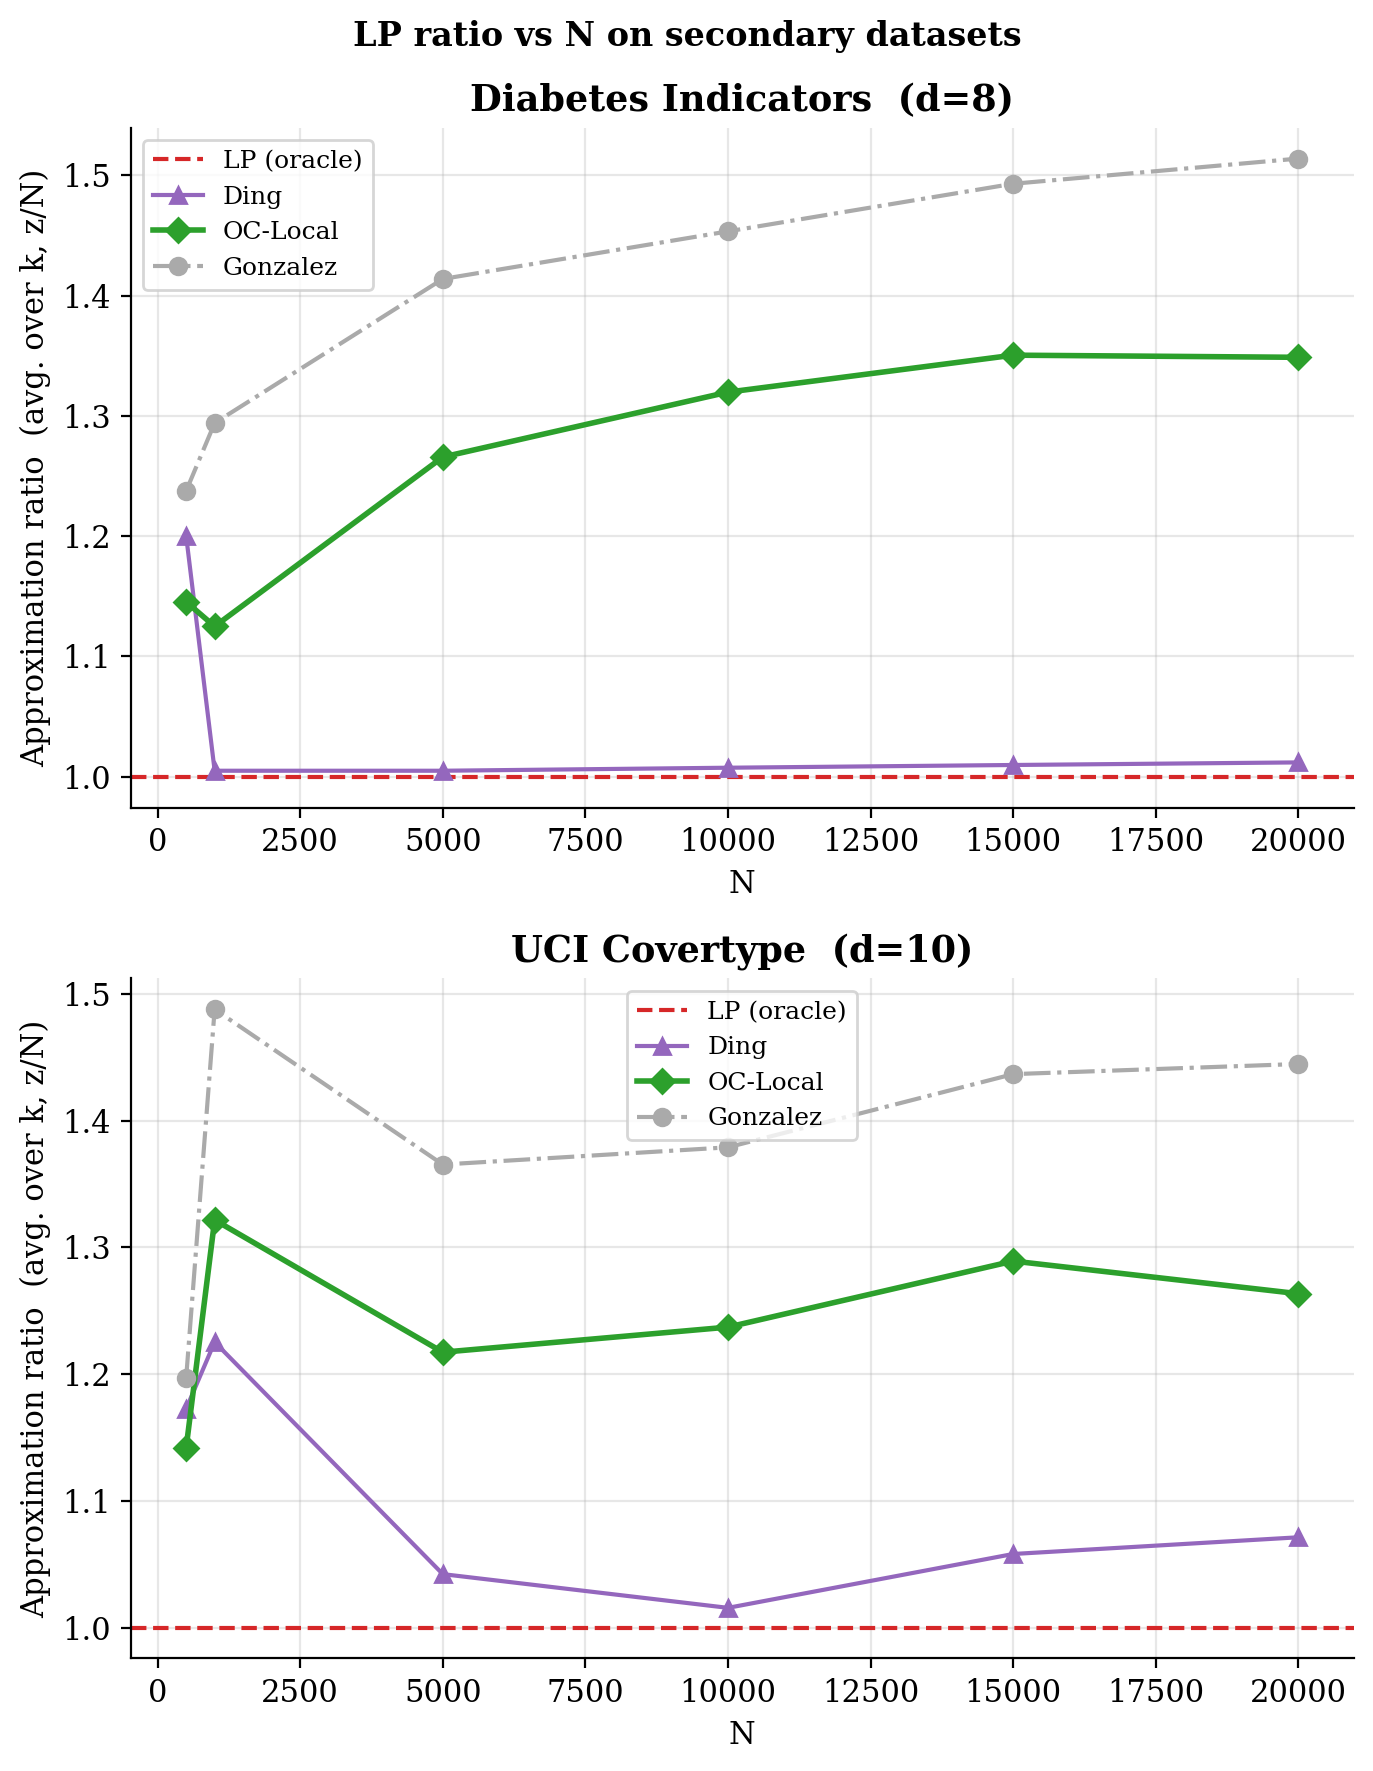
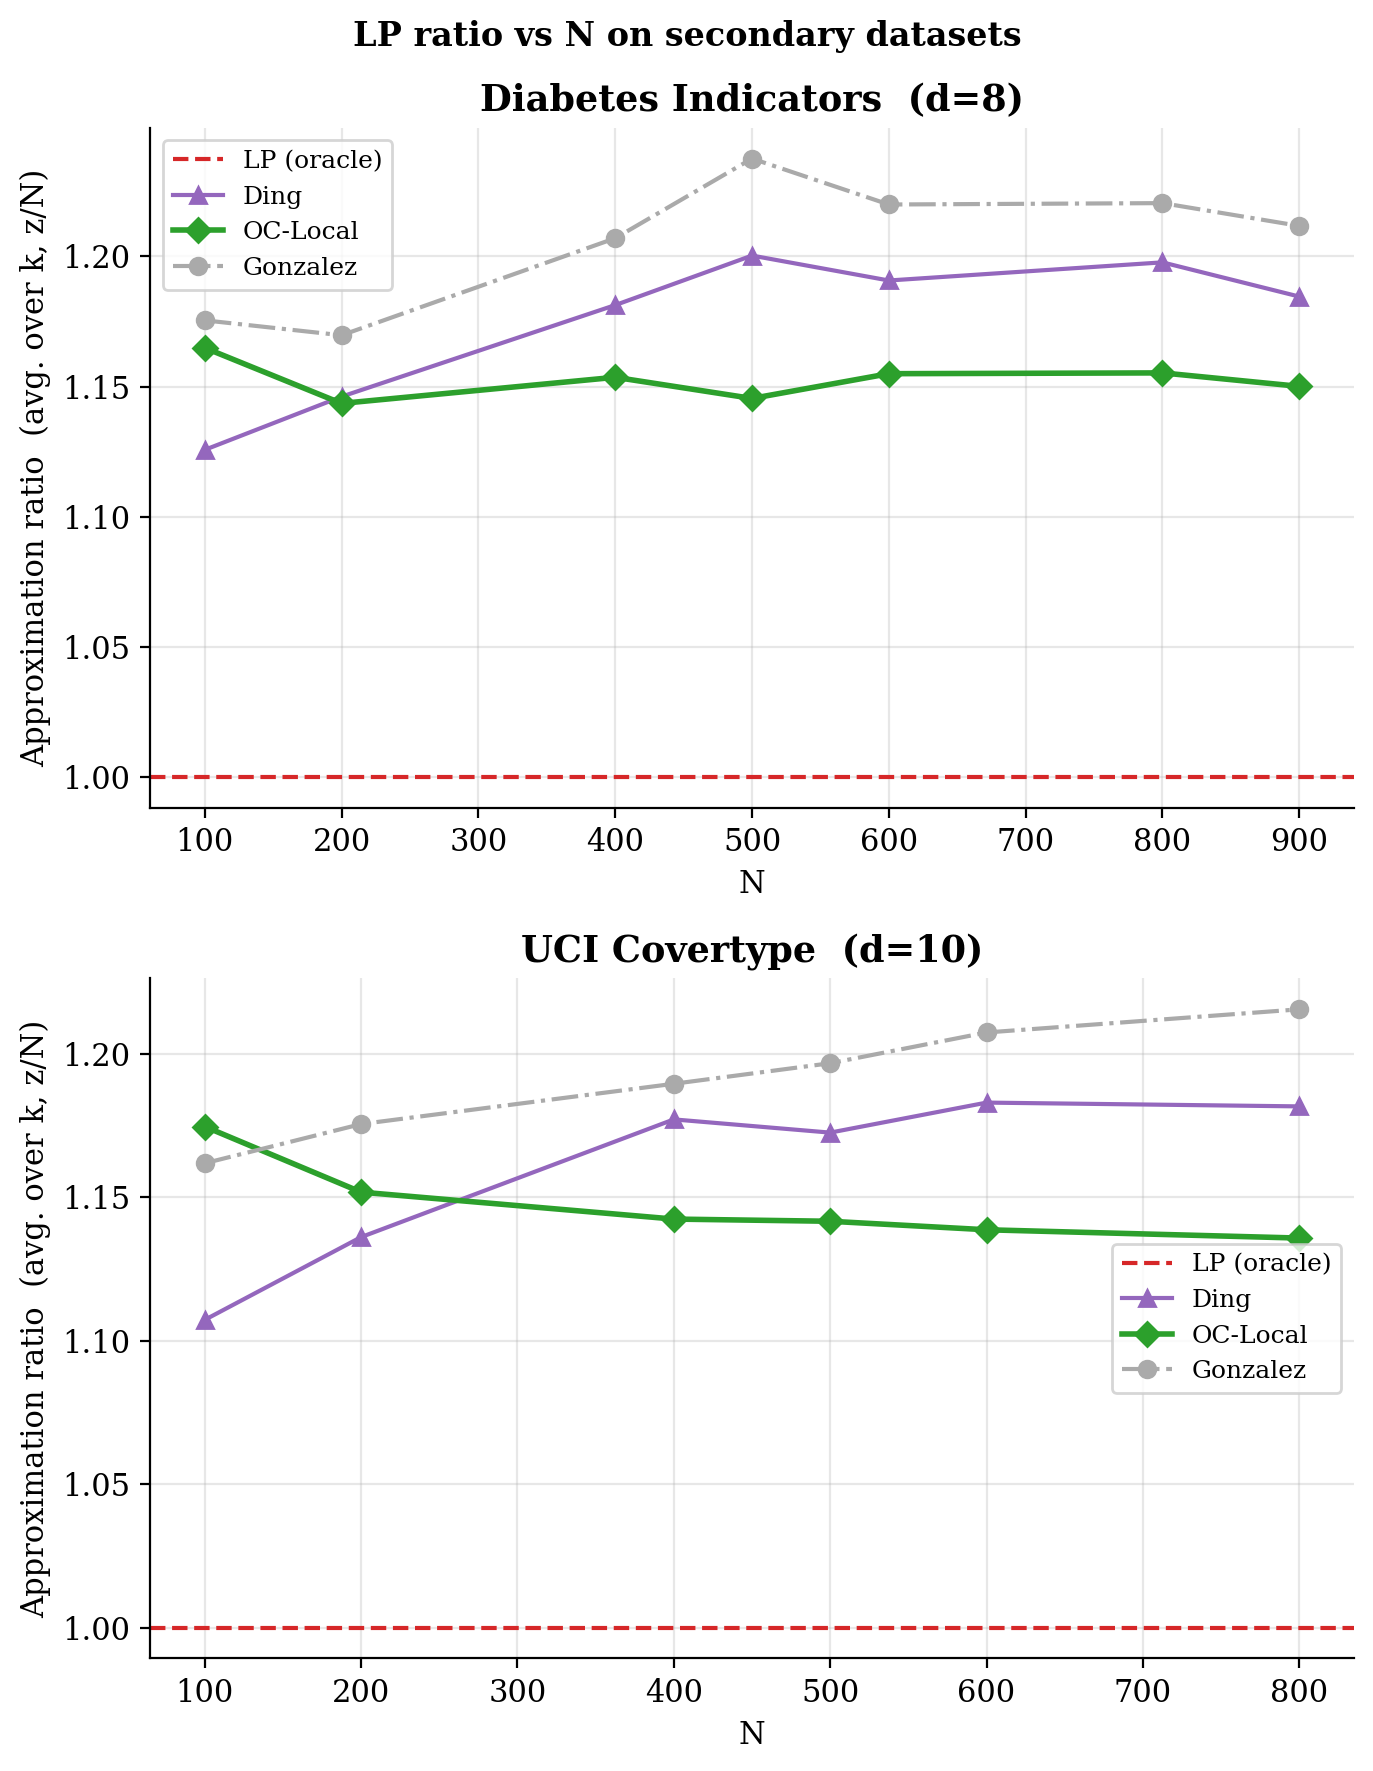
Fix fig_ratio_both to use exact Gurobi LP data only
Replaced multidata large-N extrapolated LP with exact LP computed via
Gurobi (N=100–900) in fig_ratio_both. Extrapolated LP at large N was
capped at Ding*0.995, making Ding ratios artificially close to 1.0 —
circular and misleading. With exact LP, all ratios are genuine:
OC-Local=1.15, Ding=1.16–1.18, Gonzalez=1.19–1.21.

diff --git a/code/generate_paper_figures.py b/code/generate_paper_figures.py
@@ -92,15 +92,15 @@ plt.close()
 print("fig1_ratio_vs_N.png")
 
 # ── FIGURE 3.3: LP ratio vs N — Diabetes + Covertype — 2 panels vertical ────
-# Only LP, Ding, OC-Local, Gonzalez shown (Charikar too slow at these scales)
-diab = pd.read_csv(os.path.join(RESULTS, 'multidata_diabetes_fixed.csv'))
-cov  = pd.read_csv(os.path.join(RESULTS, 'multidata_covertype_fixed.csv'))
+# Uses exact Gurobi LP (N=100–800). Only LP, Ding, OC-Local, Gonzalez shown.
+exact = pd.read_csv(os.path.join(RESULTS, 'lp_exact_small_n.csv'))
 
 fig, axes = plt.subplots(2, 1, figsize=(7, 9), sharey=False)
-for ax, df_sec, title in [
-    (axes[0], diab, 'Diabetes Indicators  (d=8)'),
-    (axes[1], cov,  'UCI Covertype  (d=10)'),
+for ax, ds_name, title in [
+    (axes[0], 'diabetes',  'Diabetes Indicators  (d=8)'),
+    (axes[1], 'covertype', 'UCI Covertype  (d=10)'),
 ]:
+    df_sec = exact[exact['dataset'] == ds_name].copy()
     df_sec['OC_LP']   = df_sec['OC_Local_radius']  / df_sec['LP_Radius']
     df_sec['Ding_LP'] = df_sec['DingRKC_radius']   / df_sec['LP_Radius']
     df_sec['Gonz_LP'] = df_sec['gonzalez_radius']  / df_sec['LP_Radius']